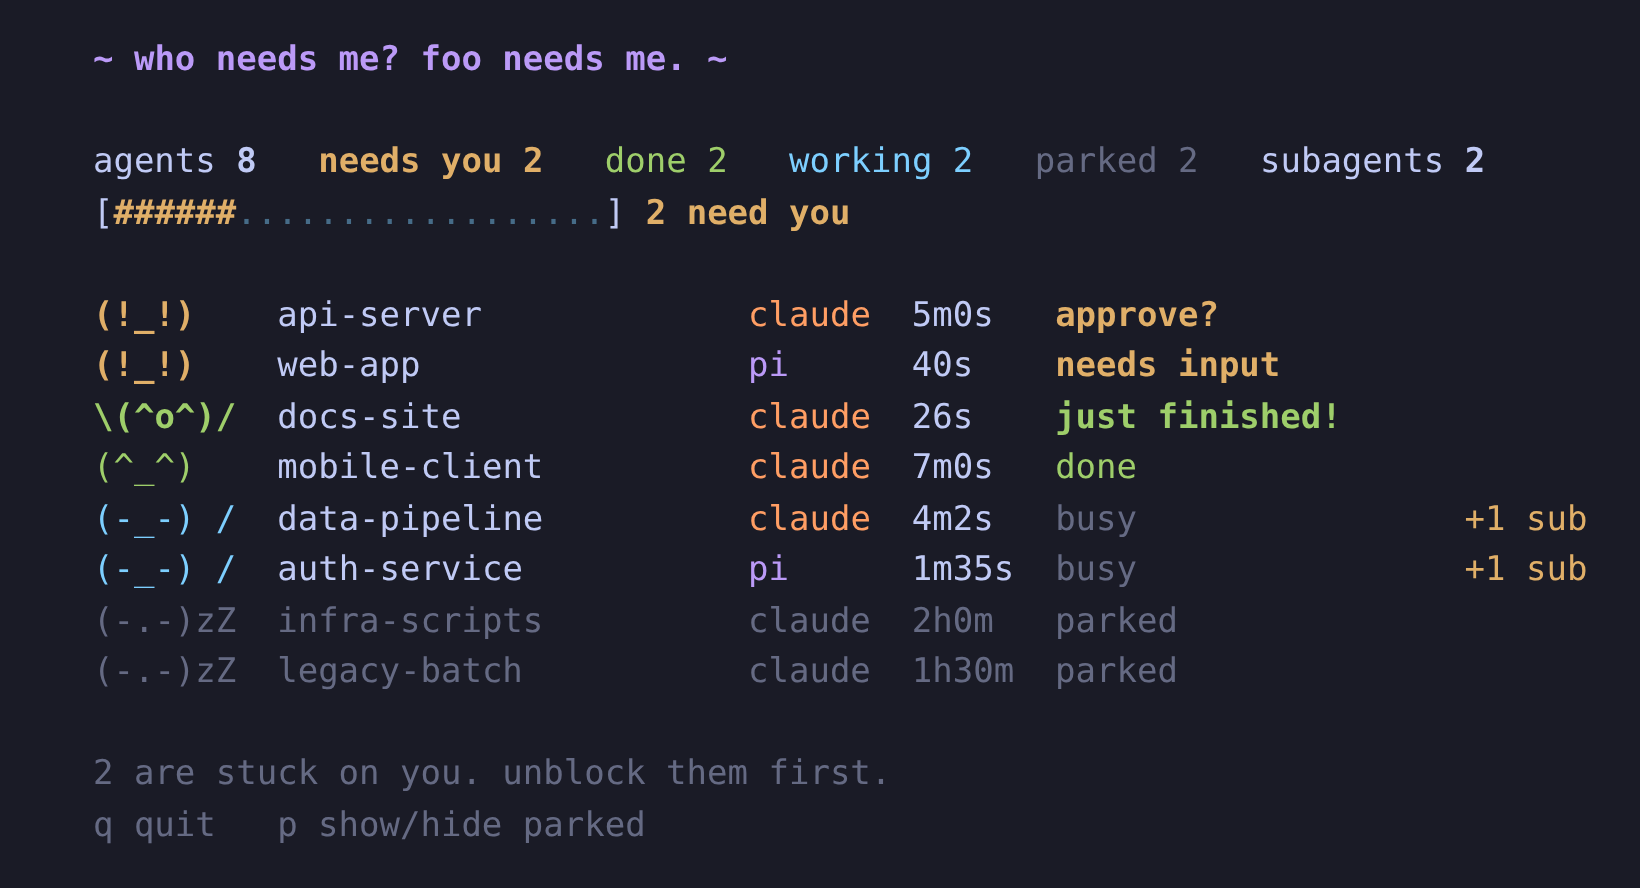
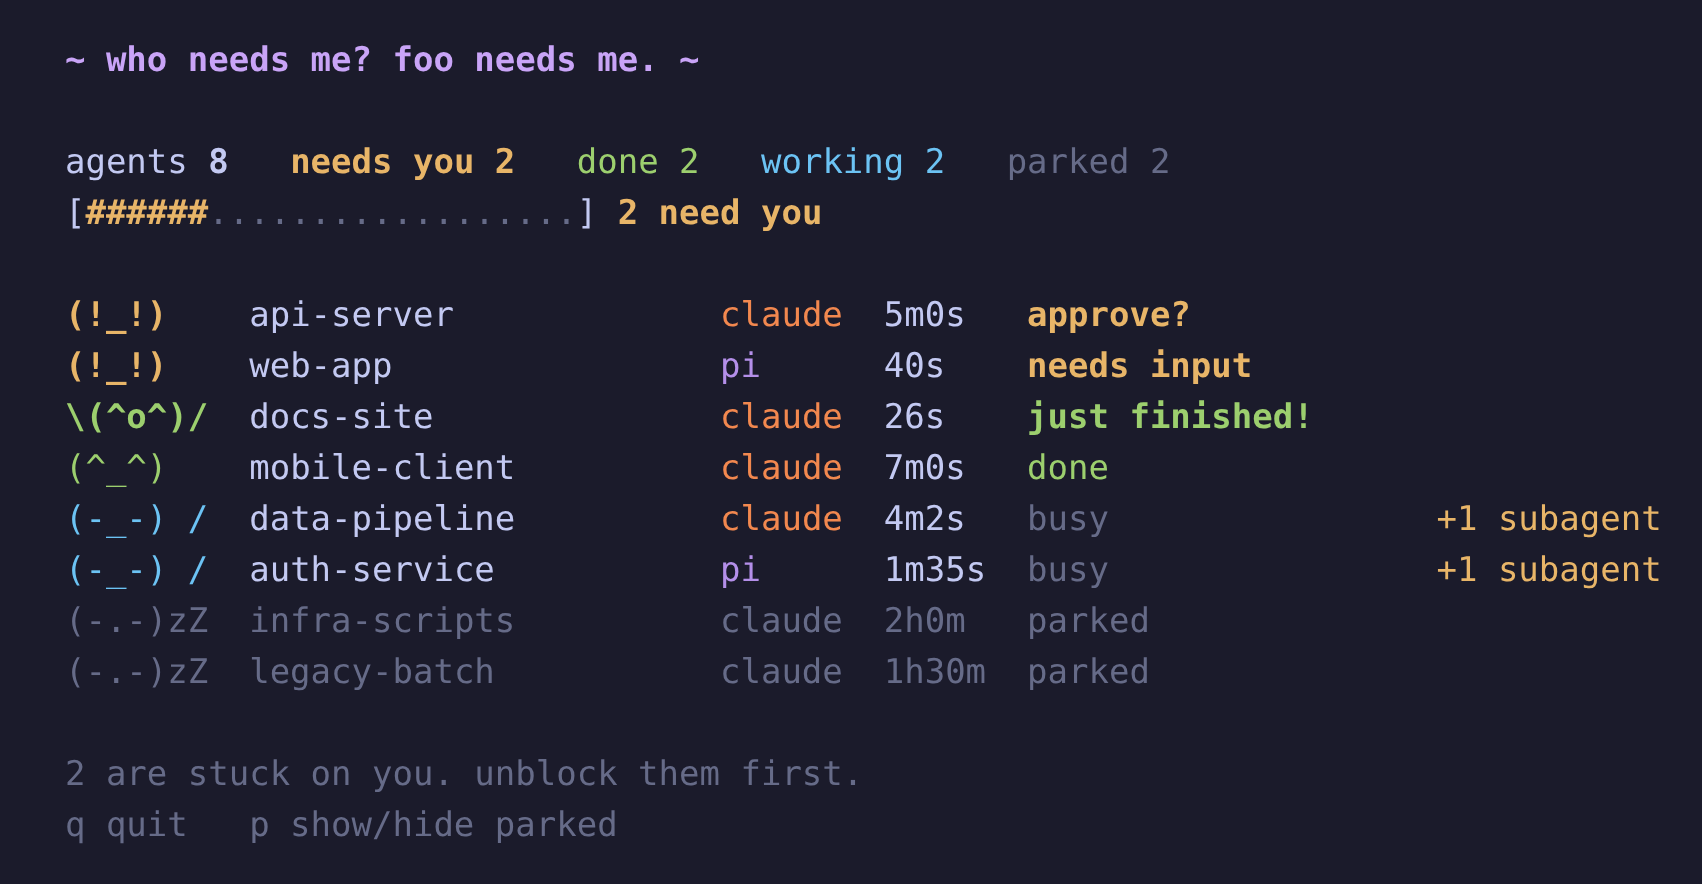
Clearer subagents: drop header total, spell out "+N subagents" (#5)
* Dashboard: drop the subagent total from the header, spell out '+N subagents'

Claude-Session: https://claude.ai/code/session_01B8Wwb2AYb4x6JyiR4xwiBk

* README: explain subagents once, in order; match the dashboard changes

Claude-Session: https://claude.ai/code/session_01B8Wwb2AYb4x6JyiR4xwiBk

* Regenerate dashboard.png for the new header and subagent labels

Claude-Session: https://claude.ai/code/session_01B8Wwb2AYb4x6JyiR4xwiBk

---------

diff --git a/README.md b/README.md
@@ -30,18 +30,16 @@ Inside a harness that supports it, type `/fooboard` to open it in a new window. 
 
 ## Supported harnesses
 
-| Harness | Flag | Integration | Hooks into | `/fooboard` |
-|---|---|---|---|---|
-| Claude Code | `--claude` | `claude-beacon.mjs` (hooks in `~/.claude/settings.json`) | `SessionStart`, `UserPromptSubmit`, `PostToolUse`, `Notification`, `Stop`, `SessionEnd`, `SubagentStart`, `SubagentStop` | yes |
-| pi | `--pi` | `pi-beacon.ts` (extension) | `session_start`, `agent_start`, `agent_end`, `session_shutdown`, `ui_prompt_start` (pi >= 0.85) | yes |
-| opencode | `--opencode` | `opencode-beacon.ts` (plugin) | `session.status`, `session.idle`, `permission.asked`, `permission.replied` | no |
+| Harness | Flag | Integration | Hooks into | `/fooboard` | Subagents |
+|---|---|---|---|---|---|
+| Claude Code | `--claude` | `claude-beacon.mjs` (hooks in `~/.claude/settings.json`) | `SessionStart`, `UserPromptSubmit`, `PostToolUse`, `Notification`, `Stop`, `SessionEnd`, `SubagentStart`, `SubagentStop` | yes | yes |
+| pi | `--pi` | `pi-beacon.ts` (extension) | `session_start`, `agent_start`, `agent_end`, `session_shutdown`, `ui_prompt_start` (pi >= 0.85) | yes | workers with `PI_SUBAGENT_DEPTH > 0` |
+| opencode | `--opencode` | `opencode-beacon.ts` (plugin) | `session.status`, `session.idle`, `permission.asked`, `permission.replied` | no | no |
 
 How each maps to a state:
 - **Claude Code:** `Stop` and `idle_prompt` = done; `permission_prompt` and `elicitation_dialog` = needs you; `PostToolUse` = working again.
 - **pi:** `agent_end` = done; `ui_prompt_start` = needs you, cleared by the next turn or tool event.
 - **opencode:** idle = done; permission asked = needs you.
-
-Subagents: Claude Code writes one `sub-<session>-<agent>.json` per running subagent, so parallel ones never race (`SessionEnd` clears them; orphans expire after 1h). pi workers started with `PI_SUBAGENT_DEPTH > 0` are recorded as subagents of the parent pi via its pid. Claude Code entries have no pid, so they are removed on `SessionEnd` or after 12h without updates.
 
 To add another harness, see the status file format below.
 
@@ -73,7 +71,17 @@ Write `~/.foo-needs-me/status/<anything>.json` whenever a session changes state,
 | `updated` | last write (ms since epoch) |
 | `pid` | optional; the entry disappears when that process dies. Without it, an entry is dropped after 12h without an update |
 
-Subagents: `{ "kind": "sub", "session_id": "<id of the parent>" }`, or `"parent_pid"` for pid-based parents, with the same `updated` and `pid` rules.
+### Subagents
+
+A subagent is a helper a session spawns. It does not get its own row; it shows as `+N subagents` on its parent, so you can tell a session that is busy with helpers from one that is stuck.
+
+Write one file per running subagent (parallel ones never race):
+
+```json
+{ "kind": "sub", "session_id": "<id of the parent>", "updated": 1761820000000 }
+```
+
+Use `"parent_pid"` instead of `session_id` if the parent has a pid. The same `updated` and `pid` rules apply. It ends when the file is deleted, the parent session ends, or it goes 1h without an update.
 
 Any tool that can run a script on its events can report in this way. PowerShell example:
 
@@ -88,15 +96,15 @@ $now = [DateTimeOffset]::UtcNow.ToUnixTimeMilliseconds()
 ```
   ~ who needs me? foo needs me. ~
 
-  agents 8   needs you 2   done 2   working 2   parked 2   subagents 2
+  agents 8   needs you 2   done 2   working 2   parked 2
   [######..................] 2 need you
 
   (!_!)    api-server             claude  5m0s   approve?
   (!_!)    web-app                pi      40s    needs input
   \(^o^)/  docs-site              claude  26s    just finished!
   (^_^)    mobile-client          claude  7m0s   done
-  (-_-) /  data-pipeline          claude  4m2s   busy                +1 sub
-  (-_-) /  auth-service           pi      1m35s  busy                +1 sub
+  (-_-) /  data-pipeline          claude  4m2s   busy                +1 subagent
+  (-_-) /  auth-service           pi      1m35s  busy                +1 subagent
   (-.-)zZ  infra-scripts          claude  2h0m   parked
   (-.-)zZ  legacy-batch           claude  1h30m  parked
 
@@ -115,6 +123,8 @@ Rows are sorted: needs you, done (newest first), working, parked.
 | `(^_^)` | done, 2 min to 1 hour |
 | `(-.-)zZ` | parked (dim): done more than 1 hour ago |
 | `(-_-) /` | working (the `/` is a spinner) |
+
+`+N subagents` on a row means that session has N helpers running. It is why a session can be busy for a long time. Subagents are not counted in the header.
 
 Keys: `p` shows or hides parked rows, `q` quits. Set the parking time with `PI_STATUS_PARK_MIN` (minutes, default 60).
 
